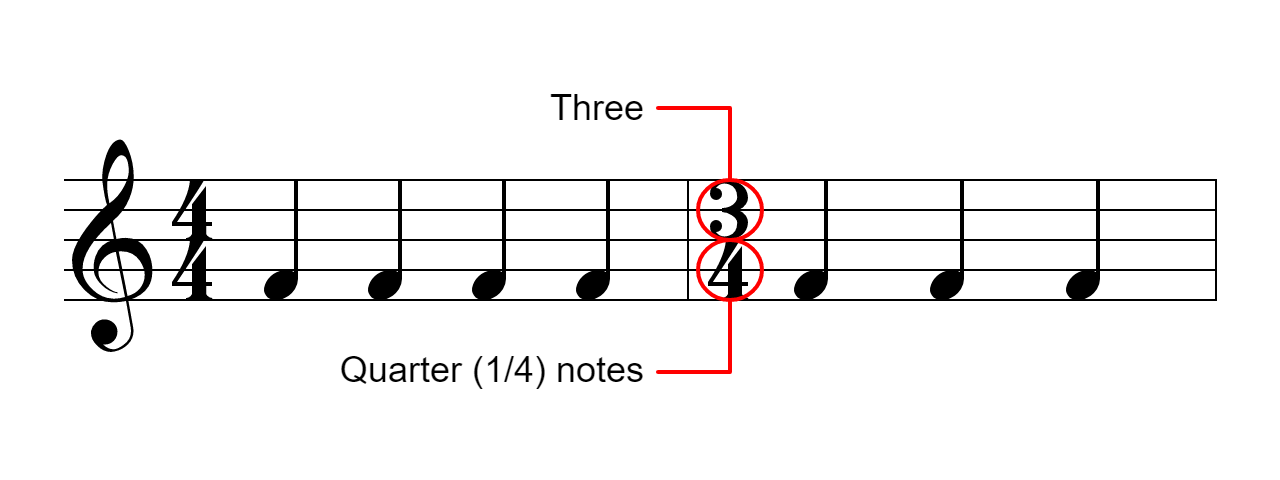
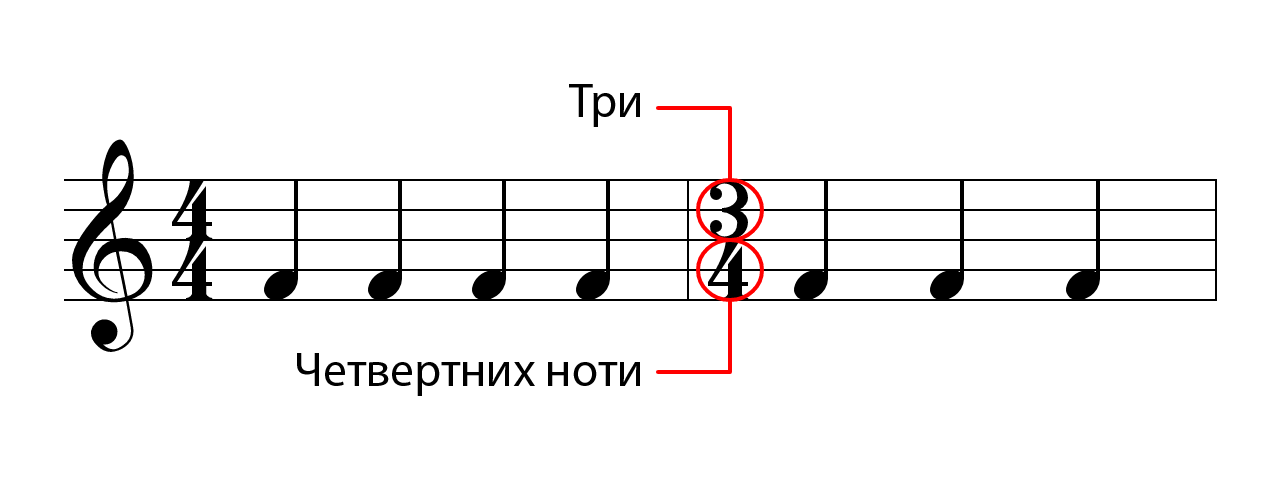
Add measures.html lesson into theory

Changed region(s): [[0.2188, 0.7188, 0.5, 0.8125], [0.4375, 0.1562, 0.5, 0.25]]

diff --git a/theory/measures.html b/theory/measures.html
@@ -1,0 +1,48 @@
+<!DOCTYPE html>
+<html>
+<head>
+  <title>Теорія музики</title>
+  <link rel="stylesheet" type="text/css" href="../style.css">
+</head>
+<body>
+  <header>
+    <div class="logo"></div>
+    <h1>Практична теорія музики</h1>
+  </header>
+  <nav>
+    <a href=../index.html>Головна</a>
+    <a href=../theory.html>Теорія</a>
+    <a href=../practice.html>Практика</a>
+    <a href=../contacts.html>Контакти</a>
+    <a href=../about.html>Про проект</a>
+  </nav>
+  <main>
+    <h1>Такти та музичні розміри</h1>
+
+    <p>
+      Вертикальні лінії - це тактові лінії, які поділяють нотний стан
+      на музичні розміри:
+    </p>
+    <img src="img/measures/1_two_measures.png">
+
+    <p>
+      Музичні розміри визначають кількість і тип нот, які може вміщати такт:
+    </p>
+    <img src="img/measures/2_time_signatures.png">
+
+    <p>
+      Перший такт визначений мірою 4/4, а другий такт - 3/4:
+    </p>
+    <img src="img/measures/3_notes.png">
+
+    <p>
+      Наступна діаграма відображає деякі варіанти використання музичних розмірів:
+    </p>
+    <img src="img/measures/4_chart.png">
+
+  </main>
+  <footer>
+    <p>&copy; 2017 Андрій Дорошенко, КН-24, КНУКіМ</p>
+  </footer>
+</body>
+</html>
